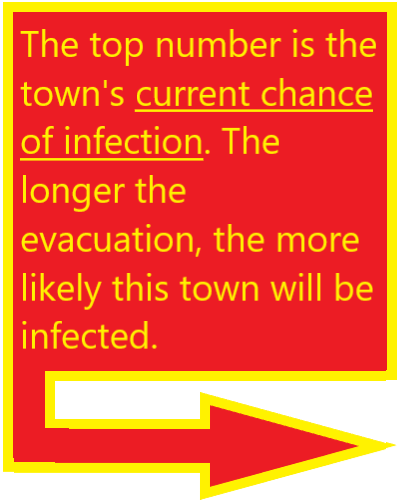
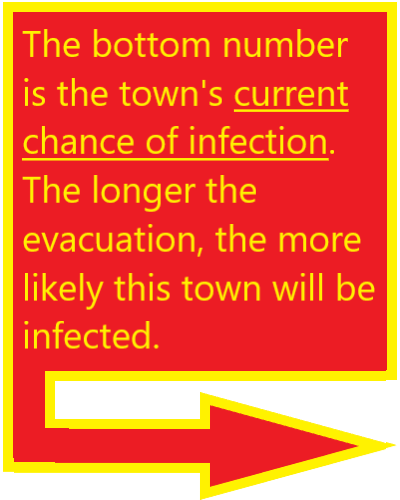
finished tutorial

diff --git a/Assets/Scripts/GameState.cs b/Assets/Scripts/GameState.cs
@@ -33,6 +33,8 @@ public class GameState
 
     public int infectedTowns;
 
+    public bool tutorialRoadBlocked;
+
     Town[,] matrix;
 
     // PlayerPrefs: LoseGame: 0 = in progress, 1 = win game, 2 = stuck, 3 = eaten, 4 = burned
@@ -99,7 +101,8 @@ public class GameState
 
 
         if (level == 1){//tutorial
-            float[] frameLengths = {6f, 8f, 10f, 5f};
+            float[] frameLengths = {6f, 8f, 10f, 5f, 8f, 6f, 5f};
+            tutorialRoadBlocked = false;
 
             float offset = 0;
             displayTutorialPart("townTutorial", 2.16f, 1.34f, offset, frameLengths[0]);
@@ -110,12 +113,22 @@ public class GameState
             displayTutorialPart("infectedTownTutorial", 5.72f, -2.92f, offset, frameLengths[1]);
             offset+=frameLengths[1];
 
-            displayTutorialPart("infectionChanceTutorial", -5.7f, 1f, offset, frameLengths[2]);
+            displayTutorialPart("infectionChanceTutorial", -5.7f, 0.45f, offset, frameLengths[2]);
             displayTutorialPart("warningTownTutorial", -2.13f, -3.38f, offset, frameLengths[2]);
             offset+=frameLengths[2];
 
             displayTutorialPart("blockRoadTutorial", 0f, -2.9f, offset, frameLengths[3]);
-            offset+=frameLengths[3];
+            offset=0;
+
+            displayTutorialPart("offlineTownTutorial", 5.7f, -2.9f, offset, frameLengths[4]);
+            offset+=frameLengths[4];
+
+            displayTutorialPart("blocksLeftTutorial", 5.9f, 3.5f, offset, frameLengths[5]);
+            offset+=frameLengths[5];
+
+            displayTutorialPart("popAliveTutorial", 3f, 3.5f, offset, frameLengths[6]);
+            offset+=frameLengths[6];
+
 
         }
         
@@ -204,7 +217,7 @@ public class GameState
         tutorial_go.transform.parent = canvas_go.transform;
 
         TutorialComponent tc = tutorial_go.GetComponent<TutorialComponent>();
-        tc.this_go = tutorial_go;
+        tc.prefab = prefab;
         pendingTimers += 1;
         tc.setTimer(t1, t2);
 

diff --git a/Assets/Scripts/TutorialComponent.cs b/Assets/Scripts/TutorialComponent.cs
@@ -8,7 +8,7 @@ using UnityEngine.UI;
 public class TutorialComponent : GameItem
 {
 
-    public GameObject this_go;
+    public string prefab;
 
     private SpriteRenderer spriteRenderer;
 
@@ -21,12 +21,26 @@ public class TutorialComponent : GameItem
 
     IEnumerator toggleOrder() 
     {
+        if (prefab.Equals("offlineTownTutorial") || prefab.Equals("blocksLeftTutorial") || prefab.Equals("popAliveTutorial")){
+            while(GameController.instance.gamestate == null || GameController.instance.gamestate.blksLeft.getBlocksLeft()>0
+                || !GameController.instance.gamestate.tutorialRoadBlocked){
+                yield return new WaitForSeconds(0.1f);
+            }
+        }
         yield return new WaitForSeconds(t);
         spriteRenderer.sortingOrder = 3;
         yield return new WaitForSeconds(dur);
         yield return new WaitForSeconds(0.1f);
+        if (prefab.Equals("blockRoadTutorial")){
+            while(GameController.instance.gamestate == null || GameController.instance.gamestate.blksLeft.getBlocksLeft()>0){
+                yield return new WaitForSeconds(0.1f);
+            }
+            GameController.instance.gamestate.tutorialRoadBlocked = true;
+        }
         spriteRenderer.sortingOrder = 0;
         GameController.instance.gamestate.pendingTimers -= 1;
+        GameController.instance.gamestate.EndGame = 
+                GameController.instance.gamestate.infectedTowns == 0 && GameController.instance.gamestate.pendingTimers == 0;
 
     }
 

diff --git a/Assets/Scripts/BlocksLeft.cs b/Assets/Scripts/BlocksLeft.cs
@@ -49,6 +49,10 @@ public class BlocksLeft : GameItem
         blocks = n;
     }
 
+    public int getBlocksLeft(){
+        return blocks;
+    }
+
     public bool useBlock (){
         if (blocks > 0){
             blocks--;
